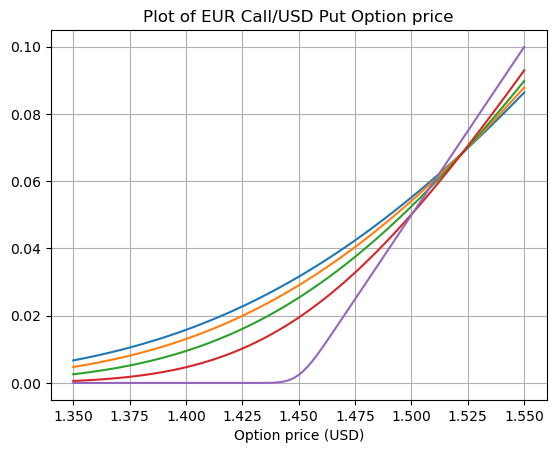
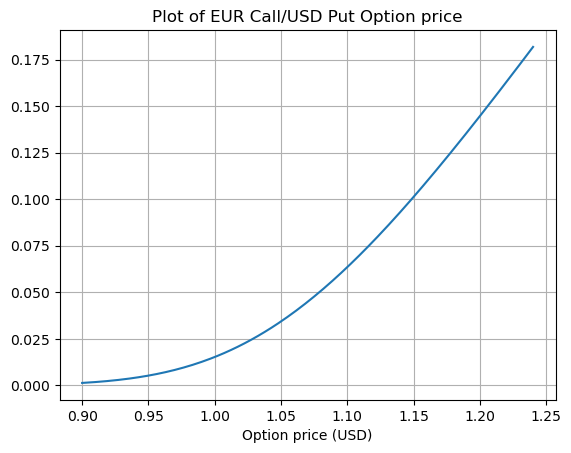
option greeks

diff --git a/post/2023/11/19/exploring-option-greeks/index.html b/post/2023/11/19/exploring-option-greeks/index.html
@@ -94,14 +94,14 @@ $$</p>
 <p>Whether a call or a put, it is an option to exchange $K$ units of the domestic currency for $1$ unit of the foreign currency, valued in domestic currency - so it is the domestic/foreign price.</p>
 <p>If we want to express the above as a CCY1/CCY1 price, the conversion is easy : we just take the CCY2/CCY1 price above and convert the CCY2 value into CCY1 terms using today&rsquo;s spot rate $S_0$:</p>
 <p>$$
-V_{\text{\% f}} = \frac{\omega}{S_0}e^{-r_{DOM}T}\left[F\Phi(\omega d_{+}) - K\Phi(\omega d_{-})\right] = \frac{V_{d/f}}{S_0}
+V_{\text{\% f}} = \frac{\omega}{S_0}e^{-r_{DOM}T}[F\Phi(\omega d_{+}) - K\Phi(\omega d_{-})] = \frac{V_{d/f}}{S_0}
 $$</p>
 <p>For the %CCY2 price, we start with the CCY2/CCY1 price, this being the price in CCY2 of an option with a unit notional in the foreign currency. Since the strike is predetermined, it is also the price in CCY2 of an option with a notional of $K$ in CCY2. So, the CCY1/CCY2 price divided by $K$, is the $%ccy2$ price i.e. the percentage domestic price:</p>
 <p>$$V_{\%d} = \frac{\omega}{K} e^{-r_{DOM}T}[F \Phi(d_{+}) - K e^{-r_{DOM}T} \Phi(d_{-})] = \frac{V_{d/f}}{K}$$</p>
 <p>The ccy1/ccy2 price is the price you need to pay in foreign currency for an option on $1$ unit notional of the domestic currency.</p>
 <p>$$V_{f/d} = \frac{V_{\% d}}{S_0} = \frac{V_{d/f}}{S_0 K}$$</p>
 <p>The four prices above are relative to the notionals of $K$ in the domestic currency and $1$ in the foreign currency. If the actual notionals are $N_d$ and $N_f$ in domestic and foreign currencies where $N_d = K \cdot N_f$, then we scale accordingly.</p>
-<h4 id="implementing-the-analytic-bs-formula">Implementing the analytic BS-formula</h4>
+<h3 id="implementing-the-bl-calculator-and-option-greeks">Implementing the Bl Calculator and Option Greeks.</h3>
 <div class="highlight"><pre tabindex="0" style="color:#f8f8f2;background-color:#272822;-moz-tab-size:4;-o-tab-size:4;tab-size:4;"><code class="language-python" data-lang="python"><span style="display:flex;"><span><span style="color:#75715e"># Author. Quasar C.</span>
 </span></span><span style="display:flex;"><span><span style="color:#75715e"># Date. 19-11-2023</span>
 </span></span><span style="display:flex;"><span>
@@ -141,7 +141,7 @@ $$</p>
 </span></span><span style="display:flex;"><span>    pv <span style="color:#f92672">=</span> domesticDF <span style="color:#f92672">*</span> undiscountedPrice <span style="color:#f92672">*</span> CCY1Notional
 </span></span><span style="display:flex;"><span>    <span style="color:#66d9ef">return</span> pv
 </span></span></code></pre></div><h4 id="computing-the-atm-forward-and-the-option-price">Computing the ATM-Forward and the option price</h4>
-<div class="highlight"><pre tabindex="0" style="color:#f8f8f2;background-color:#272822;-moz-tab-size:4;-o-tab-size:4;tab-size:4;"><code class="language-python" data-lang="python"><span style="display:flex;"><span>S_t<span style="color:#f92672">=</span><span style="color:#ae81ff">1.40</span> ; K<span style="color:#f92672">=</span><span style="color:#ae81ff">1.45</span> ; t<span style="color:#f92672">=</span><span style="color:#ae81ff">0.0</span> ;T<span style="color:#f92672">=</span><span style="color:#ae81ff">1.0</span> ; r_DOM<span style="color:#f92672">=</span><span style="color:#ae81ff">0.04</span> ; r_FOR<span style="color:#f92672">=</span><span style="color:#ae81ff">0.06</span> ; sigma<span style="color:#f92672">=</span><span style="color:#ae81ff">0.08</span> ; CCY1Notional<span style="color:#f92672">=</span><span style="color:#ae81ff">1.00</span>
+<div class="highlight"><pre tabindex="0" style="color:#f8f8f2;background-color:#272822;-moz-tab-size:4;-o-tab-size:4;tab-size:4;"><code class="language-python" data-lang="python"><span style="display:flex;"><span>S_t<span style="color:#f92672">=</span><span style="color:#ae81ff">1.0549</span> ; K<span style="color:#f92672">=</span><span style="color:#ae81ff">1.0710</span> ; t<span style="color:#f92672">=</span><span style="color:#ae81ff">0.0</span> ;T<span style="color:#f92672">=</span><span style="color:#ae81ff">1.0</span> ; r_DOM<span style="color:#f92672">=</span><span style="color:#ae81ff">0.041039868</span> ; r_FOR<span style="color:#f92672">=</span> <span style="color:#ae81ff">0.025860353</span>; sigma<span style="color:#f92672">=</span><span style="color:#ae81ff">0.08971</span> ; CCY1Notional<span style="color:#f92672">=</span><span style="color:#ae81ff">100.00</span>
 </span></span><span style="display:flex;"><span>
 </span></span><span style="display:flex;"><span>ATMForward <span style="color:#f92672">=</span> atTheMoneyForward(S_t,K,t,T,r_DOM,r_FOR,sigma)
 </span></span><span style="display:flex;"><span>
@@ -150,54 +150,41 @@ $$</p>
 </span></span></code></pre></div><div class="highlight"><pre tabindex="0" style="color:#f8f8f2;background-color:#272822;-moz-tab-size:4;-o-tab-size:4;tab-size:4;"><code class="language-python" data-lang="python"><span style="display:flex;"><span>print(<span style="color:#e6db74">f</span><span style="color:#e6db74">&#34;At the money forward = </span><span style="color:#e6db74">{</span>ATMForward<span style="color:#e6db74">}</span><span style="color:#e6db74"> USD&#34;</span>)
 </span></span><span style="display:flex;"><span>print(<span style="color:#e6db74">f</span><span style="color:#e6db74">&#34;Call Price = </span><span style="color:#e6db74">{</span>call_price<span style="color:#e6db74">}</span><span style="color:#e6db74"> USD&#34;</span>)
 </span></span><span style="display:flex;"><span>print(<span style="color:#e6db74">f</span><span style="color:#e6db74">&#34;Put Price = </span><span style="color:#e6db74">{</span>put_price<span style="color:#e6db74">}</span><span style="color:#e6db74"> USD&#34;</span>)
-</span></span></code></pre></div><pre><code>At the money forward = 1.3722781426294575 USD
-Call Price = 0.01578455115811581 USD
-Put Price = 0.09045889091103623 USD
+</span></span></code></pre></div><pre><code>At the money forward = 1.0710350214586397 USD
+Call Price = 3.679399488751329 USD
+Put Price = 3.676038161145839 USD
 </code></pre>
 <h4 id="plotting-the-option-price-against-the-ccy1ccy2-spot">Plotting the option price against the CCY1CCY2 spot</h4>
 <div class="highlight"><pre tabindex="0" style="color:#f8f8f2;background-color:#272822;-moz-tab-size:4;-o-tab-size:4;tab-size:4;"><code class="language-python" data-lang="python"><span style="display:flex;"><span><span style="color:#f92672">import</span> matplotlib.pyplot <span style="color:#66d9ef">as</span> plt
 </span></span><span style="display:flex;"><span>
 </span></span><span style="display:flex;"><span>plt<span style="color:#f92672">.</span>grid(<span style="color:#66d9ef">True</span>)
 </span></span><span style="display:flex;"><span>plt<span style="color:#f92672">.</span>title(<span style="color:#e6db74">&#39;Plot of EUR Call/USD Put Option price&#39;</span>)
-</span></span><span style="display:flex;"><span>S_t <span style="color:#f92672">=</span> np<span style="color:#f92672">.</span>linspace(<span style="color:#ae81ff">1.35</span>,<span style="color:#ae81ff">1.55</span>,<span style="color:#ae81ff">101</span>)
+</span></span><span style="display:flex;"><span>S_t <span style="color:#f92672">=</span> np<span style="color:#f92672">.</span>linspace(<span style="color:#ae81ff">0.90</span>,<span style="color:#ae81ff">1.24</span>,<span style="color:#ae81ff">201</span>)
+</span></span><span style="display:flex;"><span>CCY1Notional <span style="color:#f92672">=</span> <span style="color:#ae81ff">1.00</span>
+</span></span><span style="display:flex;"><span>
 </span></span><span style="display:flex;"><span>call_price_1y <span style="color:#f92672">=</span> PV(S_t,K,t,<span style="color:#ae81ff">1.0</span>,r_DOM,r_FOR,sigma, CCY1Notional,callPut <span style="color:#f92672">=</span> CallPut<span style="color:#f92672">.</span>CALL_OPTION)
-</span></span><span style="display:flex;"><span>call_price_9m <span style="color:#f92672">=</span> PV(S_t,K,t,<span style="color:#ae81ff">0.75</span>,r_DOM,r_FOR,sigma, CCY1Notional,callPut <span style="color:#f92672">=</span> CallPut<span style="color:#f92672">.</span>CALL_OPTION)
-</span></span><span style="display:flex;"><span>call_price_6m <span style="color:#f92672">=</span> PV(S_t,K,t,<span style="color:#ae81ff">0.50</span>,r_DOM,r_FOR,sigma, CCY1Notional,callPut <span style="color:#f92672">=</span> CallPut<span style="color:#f92672">.</span>CALL_OPTION)
-</span></span><span style="display:flex;"><span>call_price_3m <span style="color:#f92672">=</span> PV(S_t,K,t,<span style="color:#ae81ff">0.25</span>,r_DOM,r_FOR,sigma, CCY1Notional,callPut <span style="color:#f92672">=</span> CallPut<span style="color:#f92672">.</span>CALL_OPTION)
-</span></span><span style="display:flex;"><span>call_price_1d <span style="color:#f92672">=</span> PV(S_t,K,t,(<span style="color:#ae81ff">1.0</span><span style="color:#f92672">/</span><span style="color:#ae81ff">365.00</span>),r_DOM,r_FOR,sigma, CCY1Notional,callPut <span style="color:#f92672">=</span> CallPut<span style="color:#f92672">.</span>CALL_OPTION)
 </span></span><span style="display:flex;"><span>
 </span></span><span style="display:flex;"><span>plt<span style="color:#f92672">.</span>xlabel(<span style="color:#e6db74">r</span><span style="color:#e6db74">&#39;EURUSD FX spot&#39;</span>)
 </span></span><span style="display:flex;"><span>plt<span style="color:#f92672">.</span>xlabel(<span style="color:#e6db74">r</span><span style="color:#e6db74">&#39;Option price (USD)&#39;</span>)
 </span></span><span style="display:flex;"><span>plt<span style="color:#f92672">.</span>plot(S_t,call_price_1y)
-</span></span><span style="display:flex;"><span>plt<span style="color:#f92672">.</span>plot(S_t,call_price_9m)
-</span></span><span style="display:flex;"><span>plt<span style="color:#f92672">.</span>plot(S_t,call_price_6m)
-</span></span><span style="display:flex;"><span>plt<span style="color:#f92672">.</span>plot(S_t,call_price_3m)
-</span></span><span style="display:flex;"><span>plt<span style="color:#f92672">.</span>plot(S_t,call_price_1d)
 </span></span><span style="display:flex;"><span>
 </span></span><span style="display:flex;"><span>plt<span style="color:#f92672">.</span>show()
-</span></span></code></pre></div><p><img src="../../../../exploring-option-greeks01.png" alt="png"></p>
+</span></span></code></pre></div><p><img src="./../../../../exploring-option-greeks01.png" alt="png"></p>
 <div class="highlight"><pre tabindex="0" style="color:#f8f8f2;background-color:#272822;-moz-tab-size:4;-o-tab-size:4;tab-size:4;"><code class="language-python" data-lang="python"><span style="display:flex;"><span>plt<span style="color:#f92672">.</span>close()
 </span></span><span style="display:flex;"><span>
 </span></span><span style="display:flex;"><span>plt<span style="color:#f92672">.</span>grid(<span style="color:#66d9ef">True</span>)
 </span></span><span style="display:flex;"><span>plt<span style="color:#f92672">.</span>title(<span style="color:#e6db74">&#39;Plot of EUR Put/USD Call Option price&#39;</span>)
 </span></span><span style="display:flex;"><span>
 </span></span><span style="display:flex;"><span>put_price_1y <span style="color:#f92672">=</span> PV(S_t,K,t,<span style="color:#ae81ff">1.0</span>,r_DOM,r_FOR,sigma, CCY1Notional,callPut <span style="color:#f92672">=</span> CallPut<span style="color:#f92672">.</span>PUT_OPTION)
-</span></span><span style="display:flex;"><span>put_price_9m <span style="color:#f92672">=</span> PV(S_t,K,t,<span style="color:#ae81ff">0.75</span>,r_DOM,r_FOR,sigma, CCY1Notional,callPut <span style="color:#f92672">=</span> CallPut<span style="color:#f92672">.</span>PUT_OPTION)
-</span></span><span style="display:flex;"><span>put_price_6m <span style="color:#f92672">=</span> PV(S_t,K,t,<span style="color:#ae81ff">0.50</span>,r_DOM,r_FOR,sigma, CCY1Notional,callPut <span style="color:#f92672">=</span> CallPut<span style="color:#f92672">.</span>PUT_OPTION)
-</span></span><span style="display:flex;"><span>put_price_3m <span style="color:#f92672">=</span> PV(S_t,K,t,<span style="color:#ae81ff">0.50</span>,r_DOM,r_FOR,sigma, CCY1Notional,callPut <span style="color:#f92672">=</span> CallPut<span style="color:#f92672">.</span>PUT_OPTION)
-</span></span><span style="display:flex;"><span>put_price_1d <span style="color:#f92672">=</span> PV(S_t,K,t,<span style="color:#ae81ff">1</span><span style="color:#f92672">/</span><span style="color:#ae81ff">365</span>,r_DOM,r_FOR,sigma, CCY1Notional,callPut <span style="color:#f92672">=</span> CallPut<span style="color:#f92672">.</span>PUT_OPTION)
+</span></span><span style="display:flex;"><span>
 </span></span><span style="display:flex;"><span>
 </span></span><span style="display:flex;"><span>plt<span style="color:#f92672">.</span>xlabel(<span style="color:#e6db74">r</span><span style="color:#e6db74">&#39;EURUSD FX spot&#39;</span>)
 </span></span><span style="display:flex;"><span>plt<span style="color:#f92672">.</span>xlabel(<span style="color:#e6db74">r</span><span style="color:#e6db74">&#39;Option price (USD)&#39;</span>)
 </span></span><span style="display:flex;"><span>
 </span></span><span style="display:flex;"><span>plt<span style="color:#f92672">.</span>plot(S_t,put_price_1y)
-</span></span><span style="display:flex;"><span>plt<span style="color:#f92672">.</span>plot(S_t,put_price_9m)
-</span></span><span style="display:flex;"><span>plt<span style="color:#f92672">.</span>plot(S_t,put_price_6m)
-</span></span><span style="display:flex;"><span>plt<span style="color:#f92672">.</span>plot(S_t,put_price_3m)
-</span></span><span style="display:flex;"><span>plt<span style="color:#f92672">.</span>plot(S_t,put_price_1d)
+</span></span><span style="display:flex;"><span>
 </span></span><span style="display:flex;"><span>plt<span style="color:#f92672">.</span>show()
-</span></span></code></pre></div><p><img src="../../../../exploring-option-greeks02.png" alt="png"></p>
-<h2 id="option-greeks">Option Greeks.</h2>
+</span></span></code></pre></div><p><img src="./../../../../exploring-option-greeks02.png" alt="png"></p>
 <p>To derive the deltas, we use the following propositions, which are really easy to prove.</p>
 <p><em><strong>Proposition.</strong></em></p>
 <p>$$\frac{\partial d_{+}}{\partial S_0} = \frac{\partial d_{-}}{\partial S_0} = \frac{1}{\sigma S_0 \sqrt{T}}$$</p>
@@ -256,11 +243,11 @@ $$</p>
 </span></span><span style="display:flex;"><span>    omega <span style="color:#f92672">=</span> callPut<span style="color:#f92672">.</span>value
 </span></span><span style="display:flex;"><span>    d_plus <span style="color:#f92672">=</span> dPlus(S_t,K,t,T,r_DOM,r_FOR,sigma)
 </span></span><span style="display:flex;"><span>    <span style="color:#66d9ef">return</span> omega <span style="color:#f92672">*</span> np<span style="color:#f92672">.</span>exp(<span style="color:#f92672">-</span>r_FOR <span style="color:#f92672">*</span> (T<span style="color:#f92672">-</span>t)) <span style="color:#f92672">*</span> norm<span style="color:#f92672">.</span>cdf(omega <span style="color:#f92672">*</span> d_plus) <span style="color:#f92672">*</span> CCY1Notional
-</span></span></code></pre></div><div class="highlight"><pre tabindex="0" style="color:#f8f8f2;background-color:#272822;-moz-tab-size:4;-o-tab-size:4;tab-size:4;"><code class="language-python" data-lang="python"><span style="display:flex;"><span>S_t<span style="color:#f92672">=</span><span style="color:#ae81ff">1.40</span> ; K<span style="color:#f92672">=</span><span style="color:#ae81ff">1.45</span> ; t<span style="color:#f92672">=</span><span style="color:#ae81ff">0.0</span> ;T<span style="color:#f92672">=</span><span style="color:#ae81ff">1.0</span> ; r_DOM<span style="color:#f92672">=</span><span style="color:#ae81ff">0.04</span> ; r_FOR<span style="color:#f92672">=</span><span style="color:#ae81ff">0.06</span> ; sigma<span style="color:#f92672">=</span><span style="color:#ae81ff">0.08</span> ; CCY1Notional<span style="color:#f92672">=</span><span style="color:#ae81ff">1.00</span>
+</span></span></code></pre></div><div class="highlight"><pre tabindex="0" style="color:#f8f8f2;background-color:#272822;-moz-tab-size:4;-o-tab-size:4;tab-size:4;"><code class="language-python" data-lang="python"><span style="display:flex;"><span>S_t<span style="color:#f92672">=</span><span style="color:#ae81ff">1.0549</span> ; CCY1Notional<span style="color:#f92672">=</span><span style="color:#ae81ff">100.00</span>
 </span></span><span style="display:flex;"><span>
 </span></span><span style="display:flex;"><span>pips_spot_delta <span style="color:#f92672">=</span> analyticDelta(S_t,K,t,T,r_DOM,r_FOR,sigma,CCY1Notional, callPut <span style="color:#f92672">=</span> CallPut<span style="color:#f92672">.</span>CALL_OPTION)
 </span></span><span style="display:flex;"><span>print(<span style="color:#e6db74">f</span><span style="color:#e6db74">&#34;Spot Delta = </span><span style="color:#e6db74">{</span>pips_spot_delta<span style="color:#e6db74">}</span><span style="color:#e6db74"> EUR&#34;</span>)
-</span></span></code></pre></div><pre><code>Spot Delta = 0.24324371203694523 EUR
+</span></span></code></pre></div><pre><code>Spot Delta = 50.48090225276146 EUR
 </code></pre>
 <h4 id="plotting-the-analytic-delta-of-call-options">Plotting the Analytic Delta of call options</h4>
 <div class="highlight"><pre tabindex="0" style="color:#f8f8f2;background-color:#272822;-moz-tab-size:4;-o-tab-size:4;tab-size:4;"><code class="language-python" data-lang="python"><span style="display:flex;"><span>plt<span style="color:#f92672">.</span>close()
@@ -270,23 +257,171 @@ $$</p>
 </span></span><span style="display:flex;"><span>plt<span style="color:#f92672">.</span>xlabel(<span style="color:#e6db74">&#39;EURUSD spot price&#39;</span>)
 </span></span><span style="display:flex;"><span>plt<span style="color:#f92672">.</span>ylabel(<span style="color:#e6db74">r</span><span style="color:#e6db74">&#39;$\frac{\partial V}{\partial S}$&#39;</span>)
 </span></span><span style="display:flex;"><span>
-</span></span><span style="display:flex;"><span>S_t <span style="color:#f92672">=</span> np<span style="color:#f92672">.</span>linspace(<span style="color:#ae81ff">1.35</span>,<span style="color:#ae81ff">1.55</span>,<span style="color:#ae81ff">101</span>)
+</span></span><span style="display:flex;"><span>S_t <span style="color:#f92672">=</span> np<span style="color:#f92672">.</span>linspace(<span style="color:#ae81ff">0.90</span>,<span style="color:#ae81ff">1.24</span>,<span style="color:#ae81ff">201</span>)
+</span></span><span style="display:flex;"><span>CCY1Notional <span style="color:#f92672">=</span> <span style="color:#ae81ff">1.00</span>
 </span></span><span style="display:flex;"><span>delta <span style="color:#f92672">=</span> analyticDelta(S_t,K,t,<span style="color:#ae81ff">1.0</span>,r_DOM,r_FOR,sigma,CCY1Notional, callPut <span style="color:#f92672">=</span> CallPut<span style="color:#f92672">.</span>CALL_OPTION)
 </span></span><span style="display:flex;"><span>plt<span style="color:#f92672">.</span>plot(S_t,delta,label<span style="color:#f92672">=</span><span style="color:#e6db74">&#39;T=1Y&#39;</span>)
-</span></span><span style="display:flex;"><span>delta <span style="color:#f92672">=</span> analyticDelta(S_t,K,t,<span style="color:#ae81ff">0.75</span>,r_DOM,r_FOR,sigma,CCY1Notional, callPut <span style="color:#f92672">=</span> CallPut<span style="color:#f92672">.</span>CALL_OPTION)
-</span></span><span style="display:flex;"><span>plt<span style="color:#f92672">.</span>plot(S_t,delta,label<span style="color:#f92672">=</span><span style="color:#e6db74">&#39;T=9M&#39;</span>)
-</span></span><span style="display:flex;"><span>delta <span style="color:#f92672">=</span> analyticDelta(S_t,K,t,<span style="color:#ae81ff">0.50</span>,r_DOM,r_FOR,sigma,CCY1Notional, callPut <span style="color:#f92672">=</span> CallPut<span style="color:#f92672">.</span>CALL_OPTION)
-</span></span><span style="display:flex;"><span>plt<span style="color:#f92672">.</span>plot(S_t,delta,label<span style="color:#f92672">=</span><span style="color:#e6db74">&#39;T=6M&#39;</span>)
-</span></span><span style="display:flex;"><span>delta <span style="color:#f92672">=</span> analyticDelta(S_t,K,t,<span style="color:#ae81ff">0.25</span>,r_DOM,r_FOR,sigma,CCY1Notional, callPut <span style="color:#f92672">=</span> CallPut<span style="color:#f92672">.</span>CALL_OPTION)
-</span></span><span style="display:flex;"><span>plt<span style="color:#f92672">.</span>plot(S_t,delta,label<span style="color:#f92672">=</span><span style="color:#e6db74">&#39;T=3M&#39;</span>)
-</span></span><span style="display:flex;"><span>delta <span style="color:#f92672">=</span> analyticDelta(S_t,K,t,<span style="color:#ae81ff">1</span><span style="color:#f92672">/</span><span style="color:#ae81ff">365.0</span>,r_DOM,r_FOR,sigma,CCY1Notional, callPut <span style="color:#f92672">=</span> CallPut<span style="color:#f92672">.</span>CALL_OPTION)
-</span></span><span style="display:flex;"><span>plt<span style="color:#f92672">.</span>plot(S_t,delta,label<span style="color:#f92672">=</span><span style="color:#e6db74">&#39;T=1D&#39;</span>)
 </span></span><span style="display:flex;"><span>plt<span style="color:#f92672">.</span>legend(loc<span style="color:#f92672">=</span><span style="color:#e6db74">&#34;upper left&#34;</span>)
 </span></span><span style="display:flex;"><span>plt<span style="color:#f92672">.</span>show()
-</span></span></code></pre></div><p><img src="../../../../exploring-option-greeks03.png" alt="png"></p>
+</span></span></code></pre></div><p><img src="./../../../../exploring-option-greeks03.png" alt="png"></p>
 <h3 id="forward-delta">Forward Delta</h3>
-<p>The interpretation of the foward delta is the number of units of FOR of forward contracts a trader needs to buy to delta hedge a short option position.</p>
-<div class="highlight"><pre tabindex="0" style="color:#f8f8f2;background-color:#272822;-moz-tab-size:4;-o-tab-size:4;tab-size:4;"><code class="language-python" data-lang="python"></code></pre></div>
+<p>The interpretation of the foward delta is the number of units of FOR of forward contracts a trader needs to buy to delta hedge a short option position. According to Wystup, if we translate this hedge ratio in calculus, it means that we need to compute (for a call)</p>
+<p>$$
+\frac{\partial v_{\text{option}}}{\partial v_{\text{forward}}}
+$$</p>
+<p>The value of a forward contract $v_{\text{forward}}$ for an agreed forward exchange rate $K$ is:</p>
+<p>$$
+\begin{align*}
+v_{\text{forward}} &amp;= e^{-r_{DOM}T}\mathbb{E}^{\mathbb{Q}^d}[R_T - K]\\
+&amp;= e^{-r_{DOM}T}(R_0 \mathbb{E}^{\mathbb{Q}^d}[e^{(r_{DOM} - r_{FOR} - (\sigma^2/2))T + \sigma \sqrt{T} Z}] - K)\\
+&amp;= e^{-r_{DOM}T}(R_0 e^{(r_{DOM} - r_{FOR})T} - K)\\
+&amp;= R_0 e^{- r_{FOR}T} - K e^{-r_{DOM}T}
+\end{align*}
+$$</p>
+<p>So, the derivative of the value of the forward contract with respect to the spot is:</p>
+<p>$$\frac{\partial v_{\text{forward}}}{\partial R_0} = e^{-r_{FOR}T}$$</p>
+<p>Using the chain rule and the derivative of the inverse function, we obtain the forward delta:</p>
+<p>$$
+\begin{align*}
+\frac{\partial v_{\text{option}}}{\partial v_{\text{forward}}} &amp;= \frac{\partial v_{\text{option}}}{\partial v_{R_0}} \times \frac{\partial v_{R_0}}{\partial v_{\text{forward}}}\\
+&amp;=\omega e^{-r_{FOR}T}\Phi(\omega d_{+}) \times e^{r_{FOR}T}\\
+&amp;= \omega \Phi(\omega d_{+})
+\end{align*}
+$$</p>
+<div class="highlight"><pre tabindex="0" style="color:#f8f8f2;background-color:#272822;-moz-tab-size:4;-o-tab-size:4;tab-size:4;"><code class="language-python" data-lang="python"><span style="display:flex;"><span><span style="color:#66d9ef">def</span> <span style="color:#a6e22e">forwardDelta</span>(S_t,K,t,T,r_DOM,r_FOR,sigma,CCY1Notional, callPut <span style="color:#f92672">=</span> CallPut<span style="color:#f92672">.</span>CALL_OPTION):
+</span></span><span style="display:flex;"><span>    omega <span style="color:#f92672">=</span> callPut<span style="color:#f92672">.</span>value
+</span></span><span style="display:flex;"><span>    d_plus <span style="color:#f92672">=</span> dPlus(S_t,K,t,T,r_DOM,r_FOR,sigma)
+</span></span><span style="display:flex;"><span>    <span style="color:#66d9ef">return</span> omega  <span style="color:#f92672">*</span> norm<span style="color:#f92672">.</span>cdf(omega <span style="color:#f92672">*</span> d_plus) <span style="color:#f92672">*</span> CCY1Notional
+</span></span></code></pre></div><div class="highlight"><pre tabindex="0" style="color:#f8f8f2;background-color:#272822;-moz-tab-size:4;-o-tab-size:4;tab-size:4;"><code class="language-python" data-lang="python"><span style="display:flex;"><span>S_t<span style="color:#f92672">=</span><span style="color:#ae81ff">1.0549</span> ; CCY1Notional<span style="color:#f92672">=</span><span style="color:#ae81ff">100.00</span>
+</span></span><span style="display:flex;"><span>
+</span></span><span style="display:flex;"><span>forward_delta <span style="color:#f92672">=</span> forwardDelta(S_t,K,t,T,r_DOM,r_FOR,sigma,CCY1Notional, callPut <span style="color:#f92672">=</span> CallPut<span style="color:#f92672">.</span>CALL_OPTION)
+</span></span><span style="display:flex;"><span>print(<span style="color:#e6db74">f</span><span style="color:#e6db74">&#34;Forward Delta = </span><span style="color:#e6db74">{</span>forward_delta<span style="color:#e6db74">}</span><span style="color:#e6db74"> EUR of forward contracts&#34;</span>)
+</span></span></code></pre></div><pre><code>Forward Delta = 51.803382405811725 EUR of forward contracts
+</code></pre>
+<h2 id="gamma">Gamma.</h2>
+<p>$$
+\begin{align*}
+\frac{\partial^2 V}{\partial S_0^2} &amp;= \omega e^{-r_{FOR}T} \frac{\partial}{\partial S_0}\Phi(\omega d_{+}) \\
+&amp;= \omega e^{-r_{FOR}T} \phi(\omega d_{+}) \frac{\omega}{\sigma S_0 \sqrt{T}}\\
+&amp;= e^{-r_{FOR}T} \frac{\phi(\omega d_{+})}{\sigma S_0 \sqrt{T}}
+\end{align*}
+$$</p>
+<p>The interpretation of the gamma is the change of the delta as the spot changes. A high gamma means that the delta hedge must be adapted very frequently and will cause transaction costs. Gamma is typically high when the spot is near a strike of a barrier, generally, whenever the payoff has a kink or dramatically a jump. Trading systems usually quote gamma as a <em>trader&rsquo;s gamma</em>, using a one percent relative change in the spot price.</p>
+<div class="highlight"><pre tabindex="0" style="color:#f8f8f2;background-color:#272822;-moz-tab-size:4;-o-tab-size:4;tab-size:4;"><code class="language-python" data-lang="python"><span style="display:flex;"><span><span style="color:#66d9ef">def</span> <span style="color:#a6e22e">analyticGamma</span>(S_t,K,t,T,r_DOM,r_FOR,sigma,CCY1Notional, callPut <span style="color:#f92672">=</span> CallPut<span style="color:#f92672">.</span>CALL_OPTION):
+</span></span><span style="display:flex;"><span>    omega <span style="color:#f92672">=</span> callPut<span style="color:#f92672">.</span>value
+</span></span><span style="display:flex;"><span>    d_plus <span style="color:#f92672">=</span> dPlus(S_t,K,t,T,r_DOM,r_FOR,sigma)
+</span></span><span style="display:flex;"><span>    <span style="color:#66d9ef">return</span> np<span style="color:#f92672">.</span>exp(<span style="color:#f92672">-</span>r_FOR <span style="color:#f92672">*</span> (T<span style="color:#f92672">-</span>t)) <span style="color:#f92672">*</span> norm<span style="color:#f92672">.</span>cdf(omega <span style="color:#f92672">*</span> d_plus) <span style="color:#f92672">/</span> (sigma <span style="color:#f92672">*</span> S_t <span style="color:#f92672">*</span> np<span style="color:#f92672">.</span>sqrt(T<span style="color:#f92672">-</span>t)) <span style="color:#f92672">*</span> CCY1Notional
+</span></span></code></pre></div><div class="highlight"><pre tabindex="0" style="color:#f8f8f2;background-color:#272822;-moz-tab-size:4;-o-tab-size:4;tab-size:4;"><code class="language-python" data-lang="python"><span style="display:flex;"><span>gamma <span style="color:#f92672">=</span> analyticGamma(S_t,K,t,T,r_DOM,r_FOR,sigma,CCY1Notional, callPut <span style="color:#f92672">=</span> CallPut<span style="color:#f92672">.</span>CALL_OPTION)
+</span></span><span style="display:flex;"><span>print(<span style="color:#e6db74">f</span><span style="color:#e6db74">&#34;Analytic Gamma = </span><span style="color:#e6db74">{</span>gamma<span style="color:#e6db74">}</span><span style="color:#e6db74"> EUR&#34;</span>)
+</span></span></code></pre></div><pre><code>Analytic Gamma = 533.4269573839681 EUR
+</code></pre>
+<h3 id="theta">Theta.</h3>
+<p>Let $\tau = T- t$, $\frac{\partial \tau}{\partial t} = -1$.</p>
+<p>We first observe that:</p>
+<p>$$
+\begin{align*}
+d_{-} &amp;= d_{+} - \sigma\sqrt{\tau}\\
+\frac{\partial d_{-}}{\partial t} &amp;= \frac{\partial d_{+}}{\partial t} + \frac{\sigma}{2\sqrt{\tau}}
+\end{align*}
+$$</p>
+<p>$$
+\begin{align*}
+\phi (d_{-}) &amp;= \exp\left[-\frac{1}{2}(d_{+} - \sigma \sqrt{\tau})^2\right]\\
+&amp;= \exp\left[-\frac{1}{2}(d_{+}^2 -2 d_{+}\sigma\sqrt{\tau} + \sigma^2 \tau)\right]\\
+&amp;= \exp\left(-\frac{1}{2}d_{+}^2\right) \exp(d_{+}\sigma\sqrt{\tau}) \exp(-\frac{1}{2} \sigma^2 \tau)\\
+&amp;= \phi(d_{+}) \exp\left(\log \frac{S_0}{K} + (r_{DOM} - r_{FOR} + \frac{\sigma^2}{2})\tau\right) \exp(-\frac{1}{2} \sigma^2 \tau)\\
+&amp;= \phi(d_{+}) \frac{S_0}{K} \exp((r_{DOM} - r_{FOR})\tau)\exp(\frac{\sigma^2 \tau}{2}) \exp(-\frac{1}{2} \sigma^2 \tau)\\
+&amp;= \frac{S_0}{K} \cdot \phi(d_{+}) e^{(r_{DOM} - r_{FOR})\tau}
+\end{align*}
+$$</p>
+<p>And since $\phi(\omega d_{\pm}) = \phi(d_{\pm})$, we can write:</p>
+<p>$$\phi(\omega d_{-})= \frac{S_0}{K} \phi(\omega d_{+}) e^{(r_{DOM} - r_{FOR})\tau}$$</p>
+<p>The value function of a vanilla European option is:</p>
+<p>$$v_{\text{option}} = \omega [S_0 e^{-r_{FOR}\tau} \Phi(\omega d_{+}) - K e^{-r_{DOM}\tau} \Phi(\omega d_{-})]$$</p>
+<p>Differentiating with respect to $t$, we get:</p>
+<p>$$\frac{\partial v_{\text{option}}}{\partial t} = \omega[S_0 \frac{\partial }{\partial t}e^{-r_{FOR}\tau}\Phi(\omega d_{+}) - K \frac{\partial }{\partial t} e^{-r_{DOM}\tau}\Phi(\omega d_{-})]$$</p>
+<p>The first term can be expressed as:</p>
+<p>$$
+\begin{align*}
+\frac{\partial }{\partial t} e^{-r_{FOR}\tau} \Phi(\omega d_{+}) &amp;= r_{FOR}e^{-r_{FOR}\tau}\Phi(\omega d_{+}) + \omega e^{-r_{FOR}\tau} \phi(\omega d_{+}) \frac{\partial d_{+}}{\partial t}
+\end{align*}
+$$</p>
+<p>The second term can be expressed as:</p>
+<p>$$
+\begin{align*}
+\frac{\partial }{\partial t} e^{-r_{DOM}\tau}\Phi(\omega d_{-}) &amp;= r_{DOM}e^{-r_{DOM}\tau}\Phi(\omega d_{-}) + \omega  e^{-r_{DOM}\tau}\phi(\omega d_{-}) \frac{\partial d_{-}}{\partial t}\\
+&amp;=r_{DOM}e^{-r_{DOM}\tau}\Phi(\omega d_{-}) + \omega \cdot \frac{S_0}{K}  e^{-r_{DOM}\tau}\phi(\omega d_{+}) e^{(r_{DOM} - r_{FOR})\tau}\left(\frac{\partial d_{+}}{\partial t} + \frac{\sigma}{2\sqrt{\tau}}\right)\\
+&amp;=r_{DOM}e^{-r_{DOM}\tau}\Phi(\omega d_{-}) + \omega \cdot \frac{S_0}{K}  e^{-r_{FOR}\tau}\phi(\omega d_{+}) \left(\frac{\partial d_{+}}{\partial t} + \frac{\sigma}{2\sqrt{\tau}}\right)\\
+\end{align*}
+$$</p>
+<p>Collecting the two terms we have:</p>
+<p>$$
+\begin{align*}
+&amp;S_0 \frac{\partial }{\partial t} e^{-r_{FOR}\tau} \Phi(\omega d_{+}) - K \frac{\partial }{\partial t} e^{-r_{DOM}\tau}\Phi(\omega d_{-}) \\
+=&amp; S_0 r_{FOR}e^{-r_{FOR}\tau}\Phi(\omega d_{+}) + \omega S_0 e^{-r_{FOR}\tau} \phi(\omega d_{+}) \frac{\partial d_{+}}{\partial t}\\
+-&amp; K r_{DOM}e^{-r_{DOM}\tau}\Phi(\omega d_{-}) - \omega S_0  e^{-r_{FOR}\tau}\phi(\omega d_{+}) \left(\frac{\partial d_{+}}{\partial t} + \frac{\sigma}{2\sqrt{\tau}}\right)\\
+=&amp; S_0 r_{FOR}e^{-r_{FOR}\tau}\Phi(\omega d_{+}) - K r_{DOM}e^{-r_{DOM}\tau}\Phi(\omega d_{-}) - \omega S_0  e^{-r_{FOR}\tau}\phi(\omega d_{+}) \frac{\sigma}{2\sqrt{\tau}}
+\end{align*}
+$$</p>
+<p>Therefore,</p>
+<p>$$
+\begin{align*}
+\frac{\partial v_{\text{option}}}{\partial t} &amp;= \omega [S_0 r_{FOR}e^{-r_{FOR}\tau}\Phi(\omega d_{+}) - K r_{DOM}e^{-r_{DOM}\tau}\Phi(\omega d_{-})] \\
+&amp;- S_0  e^{-r_{FOR}\tau}\phi(\omega d_{+}) \frac{\sigma}{2\sqrt{\tau}}
+\end{align*}
+$$</p>
+<div class="highlight"><pre tabindex="0" style="color:#f8f8f2;background-color:#272822;-moz-tab-size:4;-o-tab-size:4;tab-size:4;"><code class="language-python" data-lang="python"><span style="display:flex;"><span><span style="color:#66d9ef">def</span> <span style="color:#a6e22e">analyticTheta</span>(S_t,K,t,T,r_DOM,r_FOR,sigma,CCY1Notional, callPut <span style="color:#f92672">=</span> CallPut<span style="color:#f92672">.</span>CALL_OPTION):    
+</span></span><span style="display:flex;"><span>    
+</span></span><span style="display:flex;"><span>    omega <span style="color:#f92672">=</span> callPut<span style="color:#f92672">.</span>value
+</span></span><span style="display:flex;"><span>    FOR_df <span style="color:#f92672">=</span> np<span style="color:#f92672">.</span>exp(<span style="color:#f92672">-</span>r_FOR<span style="color:#f92672">*</span>(T<span style="color:#f92672">-</span>t)); DOM_df <span style="color:#f92672">=</span>np<span style="color:#f92672">.</span>exp(<span style="color:#f92672">-</span>r_DOM<span style="color:#f92672">*</span>(T<span style="color:#f92672">-</span>t));
+</span></span><span style="display:flex;"><span>    dplus <span style="color:#f92672">=</span> dPlus(S_t,K,t,T,r_DOM,r_FOR,sigma); dminus <span style="color:#f92672">=</span> dMinus(S_t,K,t,T,r_DOM,r_FOR,sigma);
+</span></span><span style="display:flex;"><span>    Nd1 <span style="color:#f92672">=</span> norm<span style="color:#f92672">.</span>cdf(omega <span style="color:#f92672">*</span> dplus); Nd2 <span style="color:#f92672">=</span> norm<span style="color:#f92672">.</span>cdf(omega <span style="color:#f92672">*</span> dminus)
+</span></span><span style="display:flex;"><span>    
+</span></span><span style="display:flex;"><span>    theta <span style="color:#f92672">=</span> (omega <span style="color:#f92672">*</span> (S_t <span style="color:#f92672">*</span> r_FOR <span style="color:#f92672">*</span> FOR_df <span style="color:#f92672">*</span> Nd1 <span style="color:#f92672">-</span> K <span style="color:#f92672">*</span> r_DOM <span style="color:#f92672">*</span> DOM_df <span style="color:#f92672">*</span> Nd2) 
+</span></span><span style="display:flex;"><span>            <span style="color:#f92672">-</span> S_t <span style="color:#f92672">*</span> FOR_df <span style="color:#f92672">*</span> Nd1 <span style="color:#f92672">*</span> (sigma <span style="color:#f92672">/</span> (<span style="color:#ae81ff">2</span> <span style="color:#f92672">*</span> np<span style="color:#f92672">.</span>sqrt(T<span style="color:#f92672">-</span>t)))) <span style="color:#f92672">*</span> CCY1Notional
+</span></span><span style="display:flex;"><span>    
+</span></span><span style="display:flex;"><span>    <span style="color:#66d9ef">return</span> theta
+</span></span></code></pre></div><div class="highlight"><pre tabindex="0" style="color:#f8f8f2;background-color:#272822;-moz-tab-size:4;-o-tab-size:4;tab-size:4;"><code class="language-python" data-lang="python"><span style="display:flex;"><span>S_t<span style="color:#f92672">=</span><span style="color:#ae81ff">1.0549</span> ; CCY1Notional<span style="color:#f92672">=</span><span style="color:#ae81ff">100.00</span>
+</span></span><span style="display:flex;"><span>
+</span></span><span style="display:flex;"><span>theta <span style="color:#f92672">=</span> analyticTheta(S_t,K,t,T,r_DOM,r_FOR,sigma,CCY1Notional, callPut <span style="color:#f92672">=</span> CallPut<span style="color:#f92672">.</span>CALL_OPTION)
+</span></span><span style="display:flex;"><span>print(<span style="color:#e6db74">f</span><span style="color:#e6db74">&#34;Analytic Theta = </span><span style="color:#e6db74">{</span>theta<span style="color:#e6db74">}</span><span style="color:#e6db74"> USD&#34;</span>)
+</span></span></code></pre></div><pre><code>Analytic Theta = -3.04597416111385 USD
+</code></pre>
+<p>Theta reflects the change of the option value as the clock ticks. The <em>trader&rsquo;s theta</em> in a risk-management system refers to the change in the option value in one day, i.e. it can be approximated by $365 \frac{\partial v}{\partial t}$.</p>
+<h3 id="vega">Vega.</h3>
+<p>$$
+\begin{align*}
+\frac{\partial v}{\partial \sigma} &amp;= \omega[S_0 e^{-r_{FOR}\tau} \frac{\partial}{\partial \sigma}\Phi(\omega d_{+}) - K e^{-r_{DOM}\tau} \frac{\partial}{\partial \sigma}\Phi(\omega d_{-})]\\
+&amp;= \omega[S_0 e^{-r_{FOR}\tau} \phi(\omega d_{+})\frac{\partial d_{+}}{\partial \sigma} - K e^{-r_{DOM}\tau} \phi(\omega d_{-}) \frac{\partial d_{-}}{\partial \sigma}]
+\end{align*}
+$$</p>
+<p>Note that, $d_{-} = d_{+} - \sigma\sqrt{\tau}$, so $\frac{\partial d_{-}}{\partial \sigma} = \frac{\partial d_{+}}{\partial \sigma} - \sqrt{\tau}$.</p>
+<p>Also, $\phi(\omega d_{-})=\frac{K}{S_0}e^{(r_{DOM} - r_{FOR})\tau}\phi(\omega d_{+})$.</p>
+<p>Plugging these two facts in the expression for option vega, we get:</p>
+<p>$$
+\begin{align*}
+\frac{\partial v}{\partial \sigma}  &amp;= \omega[S_0 e^{-r_{FOR}\tau} \phi(\omega d_{+})\frac{\partial d_{+}}{\partial \sigma} \\
+&amp;- K e^{-r_{DOM}\tau} \frac{K}{S_0}e^{(r_{DOM} - r_{FOR})\tau}\phi(\omega d_{+}) \left(\frac{\partial d_{+}}{\partial \sigma} - \sqrt{\tau}\right)]\\
+&amp;= S_0 e^{-r_{FOR}\tau} \phi(\omega d_{+}) \sqrt{\tau}
+\end{align*}
+$$</p>
+<h3 id="vanna">Vanna.</h3>
+<p>The vanna is <em>dvega/dspot</em>. It reflects the change in the vega as the spot moves.</p>
+<p>$$
+\begin{align*}
+\frac{\partial^2 v}{\partial \sigma \partial S_0} &amp;= \frac{\partial}{\partial S_0} \left(\frac{\partial v}{\partial \sigma}\right)\\
+&amp;= e^{-r_{FOR}\tau} \sqrt{\tau}\cdot \frac{\partial}{\partial S_0}(S_0\phi(\omega d_{+}))\\
+&amp;= e^{-r_{FOR}\tau} \sqrt{\tau}(\phi(\omega d_{+}) + S_0 \frac{\partial}{\partial S_0}\phi(\omega d_{+}))\\
+&amp;= e^{-r_{FOR}\tau} \sqrt{\tau}(\phi(\omega d_{+}) + \omega S_0 \frac{\partial}{\partial d_{+}}\phi(\omega d_{+})\cdot \frac{\partial d_{+}}{\partial S_0})\\
+&amp;= e^{-r_{FOR}\tau} \sqrt{\tau}(\phi(\omega d_{+}) + \omega S_0\frac{1}{\sqrt{2\pi}} \cdot\frac{\partial}{\partial d_{+}}\exp(-d_{+}^2/2)\cdot \frac{1}{\sigma S_0 \sqrt{\tau}})\\
+&amp;= e^{-r_{FOR}\tau} \sqrt{\tau}(\phi(\omega d_{+}) + \omega \frac{1}{\sqrt{2\pi}}e^{-d_{+}^2/2} (-d_{+})\cdot \frac{1}{\sigma \sqrt{\tau}})\\
+&amp;= e^{-r_{FOR}\tau} \sqrt{\tau}\phi(\omega d_{+})(1 -  \frac{d_{+}}{\sigma \sqrt{\tau}})\\
+&amp;= -e^{-r_{FOR}\tau} \phi(\omega d_{+})\frac{d_{-}}{\sigma}
+\end{align*}
+$$</p>
+<h3 id="volga">Volga.</h3>
+<p>The volga is <em>dvega/dvol</em>. It reflects the change in the vega as the vol moves.</p>
+
 </article>
 
 
